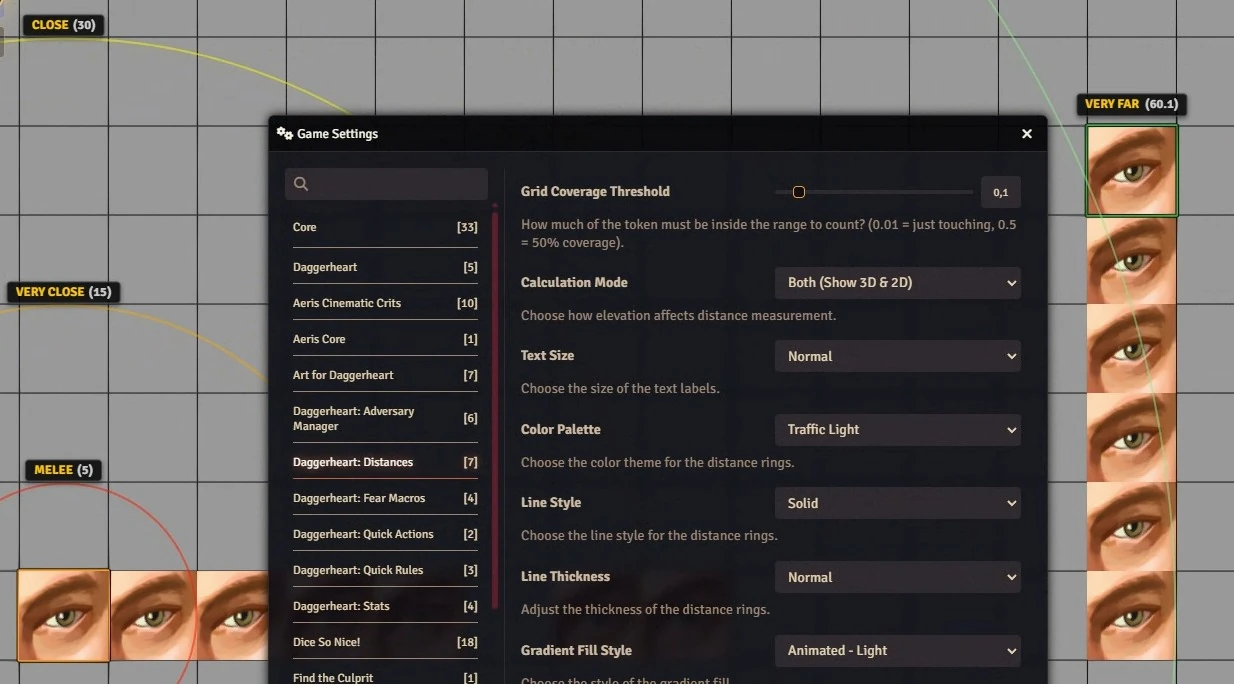
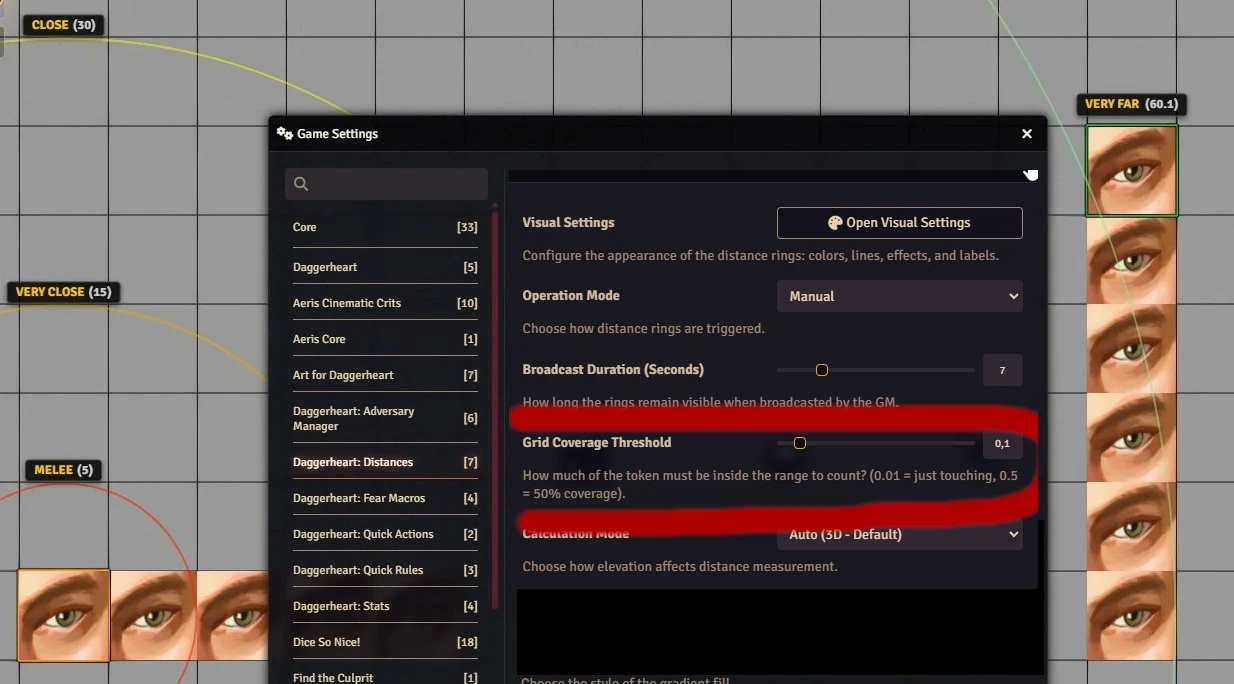
0.1.7

Changed region(s): [[0.4003, 0.2456, 0.8622, 1.0], [0.8006, 0.4298, 0.8314, 0.4605]]

diff --git a/scripts/main.js b/scripts/main.js
@@ -574,8 +574,11 @@ class CombatDistances {
         }
         // Reset transient mode in case canvas reloads while a key is physically held
         this._transientMode = null;
+        // Remove the container entirely so getContainer() re-attaches it to the correct
+        // parent after the canvas is rebuilt. Clearing innerHTML alone leaves the element
+        // anchored to a stale parent, which displaces Foundry's hotbar and sidebar.
         const container = document.getElementById('combat-distances-container');
-        if (container) container.innerHTML = '';
+        if (container) container.remove();
     }
 
     static onTicker() {
@@ -1036,7 +1039,11 @@ class CombatDistances {
         if (!container) {
             container = document.createElement('div');
             container.id = 'combat-distances-container';
-            document.body.appendChild(container);
+            // Attach to #board's parent (the canvas wrapper) so the overlay is scoped
+            // to the canvas area, staying below Foundry's #interface layer (sidebar, hotbar).
+            // Falls back to document.body if the canvas wrapper is unavailable.
+            const parent = canvas.app?.view?.parentElement ?? document.body;
+            parent.appendChild(container);
         }
         return container;
     }
@@ -1152,25 +1159,26 @@ class CombatDistances {
     static get ranges() { return this.DEFAULTS.ranges; }
 
     static onRenderTokenHUD(hud, html, tokenData) {
-        const button = $(`
-            <div class="control-icon" title="Toggle Combat Distances">
-                <i class="fas fa-circle-dot"></i>
-            </div>
-        `);
-
         const token = canvas.tokens.get(tokenData._id);
         if (!token) return;
-        
+
+        const button = document.createElement('div');
+        button.classList.add('control-icon');
+        button.title = 'Toggle Combat Distances';
+        button.innerHTML = '<i class="fas fa-circle-dot"></i>';
+
         if (this.hasRings(token.id)) {
-            button.addClass('active');
+            button.classList.add('active');
         }
 
-        button.click(async (event) => {
+        button.addEventListener('click', async (event) => {
             event.preventDefault();
             this.Toggle();
         });
 
-        $(html).find('div.left').append(button);
+        // V13: html may be HTMLElement (AppV2) or a jQuery wrapper (legacy HUD).
+        const root = html instanceof HTMLElement ? html : html[0];
+        root?.querySelector('div.left')?.appendChild(button);
     }
 
     static removeRings(tokenId) {

diff --git a/styles/styles.css b/styles/styles.css
@@ -12,7 +12,12 @@
     left: 0;
     width: 100%;
     height: 100%;
-    z-index: 10; 
+    z-index: 3;
+    /* overflow:hidden prevents off-screen rings from creating scrollbars that displace UI */
+    overflow: hidden;
+    /* isolation:isolate confines mix-blend-mode on child highlights to this context,
+       preventing visual compositing bleed onto the Foundry sidebar and hotbar */
+    isolation: isolate;
 }
 
 /* Renamed to dhd-range-ring */
@@ -252,7 +257,7 @@ img.dhd-highlight-ring {
     width: 100%;
 }
 
-#dhd-visual-settings footer {
+#dhd-visual-settings .dhd-visual-settings-form footer {
     margin-top: 12px;
     padding-top: 8px;
     border-top: 1px solid rgba(255,255,255,0.15);

diff --git a/CHANGELOG.md b/CHANGELOG.md
@@ -1,9 +1,17 @@
+# 0.1.7
+
+- [Fixed] CSS leaking into Foundry UI: added `isolation: isolate` to the overlay container to prevent `mix-blend-mode` on token highlights from visually corrupting the sidebar and other UI elements
+- [Fixed] `overflow: hidden` on the overlay container prevents off-screen rings from adding scrollbars that displaced the hotbar
+- [Fixed] Overlay container now attaches to the canvas wrapper (`#board` parent) instead of `document.body`, scoping it below Foundry's `#interface` layer
+- [Fixed] Removed jQuery dependency from `onRenderTokenHUD`; replaced with native DOM APIs per V13 standards
+
 # 0.1.6
 
 - [Changed] Six visual settings (Text Size, Color Palette, Line Style, Line Thickness, Gradient Fill Style, Target Highlighting) moved out of the default settings list into a dedicated "Visual Settings" dialog opened via a palette button
 
 # 0.1.5
 
+- https://github.com/brunocalado/daggerheart-distances/issues/3
 - [Added] Operation Mode setting: Manual (default), Hover Mode (GM), and Hover Mode (Broadcast)
 - [Added] Hover Mode (GM): hovering a token as GM auto-shows rings locally, removed on mouse-out
 - [Added] Hover Mode (Broadcast): hovering a token as GM broadcasts rings to all players (uses existing broadcast timer)
